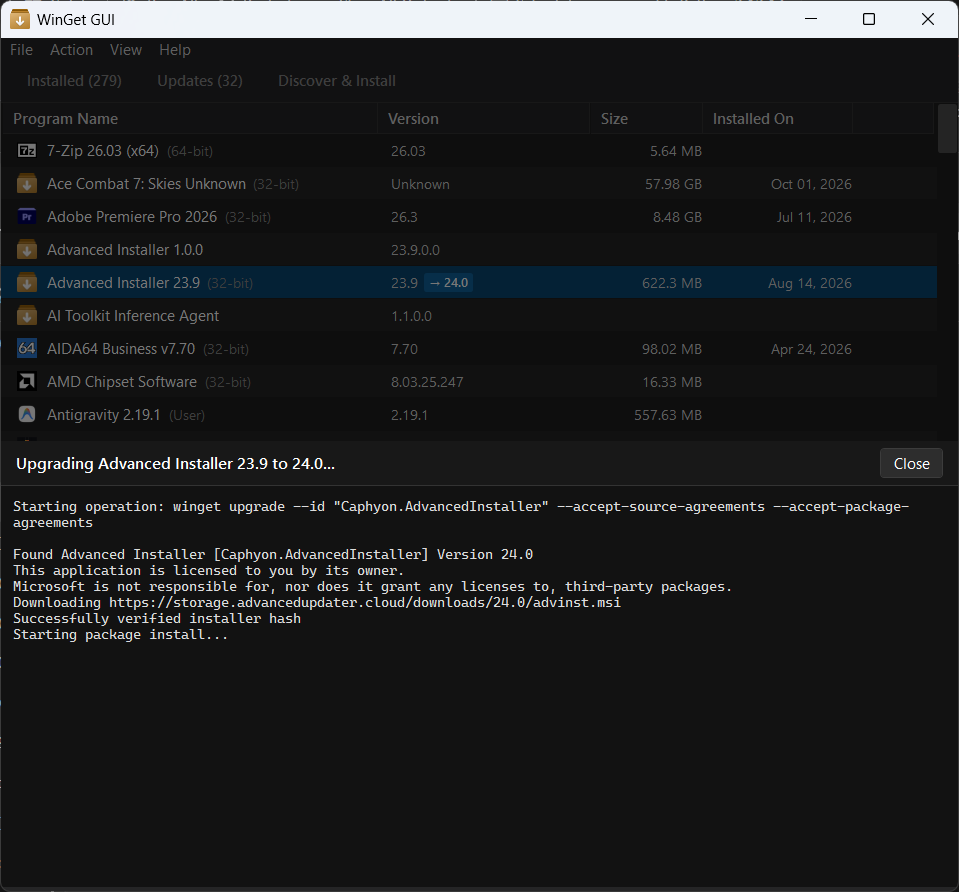
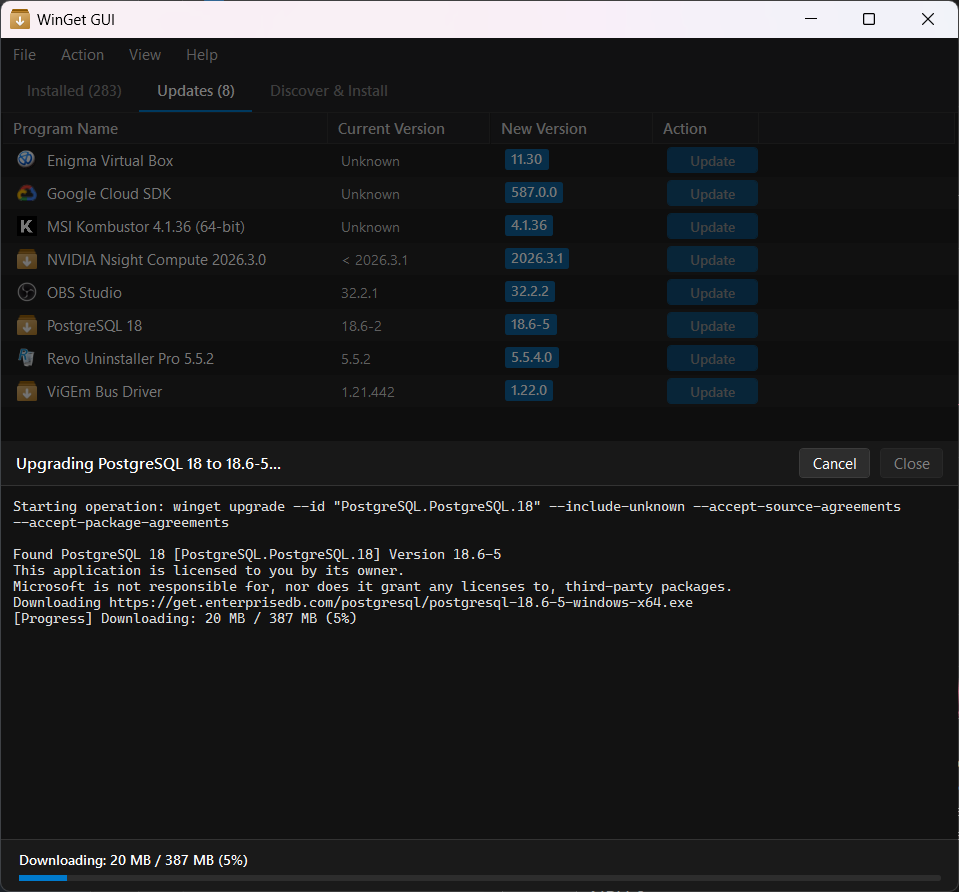
fix(download): improve temp file detection and total size resolution

diff --git a/Services/WingetService.cs b/Services/WingetService.cs
@@ -517,9 +517,10 @@ public class WingetService
         long totalBytes = 0;
         var operationStartTime = DateTime.UtcNow.AddSeconds(-5);
 
-        var wingetTempPath = Path.Combine(
+        var tempRoot = Path.Combine(
             Environment.GetFolderPath(Environment.SpecialFolder.LocalApplicationData),
-            "Temp", "WinGet");
+            "Temp");
+        var wingetTempPath = Path.Combine(tempRoot, "WinGet");
 
         void TryQueryContentLength(string url)
         {
@@ -528,17 +529,125 @@ public class WingetService
             {
                 try
                 {
-                    using var client = new HttpClient { Timeout = TimeSpan.FromSeconds(4) };
-                    using var req = new HttpRequestMessage(HttpMethod.Head, url);
-                    req.Headers.UserAgent.ParseAdd("WinGet");
-                    using var resp = await client.SendAsync(req, HttpCompletionOption.ResponseHeadersRead, monitorCts.Token);
-                    if (resp.Content.Headers.ContentLength.HasValue && resp.Content.Headers.ContentLength.Value > 0)
+                    using var client = new HttpClient { Timeout = TimeSpan.FromSeconds(5) };
+                    client.DefaultRequestHeaders.UserAgent.ParseAdd("WinGet");
+
+                    // 1. Try HEAD request first
+                    try
                     {
-                        Interlocked.Exchange(ref totalBytes, resp.Content.Headers.ContentLength.Value);
+                        using var headReq = new HttpRequestMessage(HttpMethod.Head, url);
+                        using var headResp = await client.SendAsync(headReq, HttpCompletionOption.ResponseHeadersRead, monitorCts.Token);
+                        if (headResp.IsSuccessStatusCode && headResp.Content.Headers.ContentLength.HasValue && headResp.Content.Headers.ContentLength.Value > 0)
+                        {
+                            Interlocked.Exchange(ref totalBytes, headResp.Content.Headers.ContentLength.Value);
+                            return;
+                        }
                     }
+                    catch { }
+
+                    // 2. Fallback to GET Range: bytes=0-0 (downloads only 1 single byte)
+                    try
+                    {
+                        using var getReq = new HttpRequestMessage(HttpMethod.Get, url);
+                        getReq.Headers.Range = new System.Net.Http.Headers.RangeHeaderValue(0, 0);
+                        using var getResp = await client.SendAsync(getReq, HttpCompletionOption.ResponseHeadersRead, monitorCts.Token);
+                        if (getResp.Content.Headers.ContentRange?.Length is long rangeLen && rangeLen > 0)
+                        {
+                            Interlocked.Exchange(ref totalBytes, rangeLen);
+                            return;
+                        }
+                        if (getResp.Content.Headers.ContentLength.HasValue && getResp.Content.Headers.ContentLength.Value > 0)
+                        {
+                            Interlocked.Exchange(ref totalBytes, getResp.Content.Headers.ContentLength.Value);
+                            return;
+                        }
+                    }
+                    catch { }
                 }
                 catch { }
             }, monitorCts.Token);
+        }
+
+        FileInfo? FindBestActiveFile()
+        {
+            FileInfo? best = null;
+            long bestSize = -1;
+            DateTime bestTime = operationStartTime;
+
+            // 1. Check WinGet temp directory (strictly excluding \cache\)
+            if (Directory.Exists(wingetTempPath))
+            {
+                try
+                {
+                    var di = new DirectoryInfo(wingetTempPath);
+                    foreach (var file in di.GetFiles("*", SearchOption.AllDirectories))
+                    {
+                        if (file.FullName.Contains(@"\cache\", StringComparison.OrdinalIgnoreCase) ||
+                            file.FullName.EndsWith(@"\cache", StringComparison.OrdinalIgnoreCase))
+                        {
+                            continue;
+                        }
+
+                        var ext = file.Extension;
+                        if (ext.Equals(".yaml", StringComparison.OrdinalIgnoreCase) ||
+                            ext.Equals(".mszyml", StringComparison.OrdinalIgnoreCase) ||
+                            ext.Equals(".txt", StringComparison.OrdinalIgnoreCase) ||
+                            ext.Equals(".log", StringComparison.OrdinalIgnoreCase))
+                        {
+                            continue;
+                        }
+
+                        if (file.LastWriteTimeUtc >= operationStartTime)
+                        {
+                            long physical = GetPhysicalFileSize(file.FullName);
+                            long size = physical >= 0 ? physical : file.Length;
+                            if ((size > 65536 || file.Length > 65536) && (size > bestSize || file.LastWriteTimeUtc > bestTime))
+                            {
+                                best = file;
+                                bestSize = size;
+                                bestTime = file.LastWriteTimeUtc;
+                            }
+                        }
+                    }
+                }
+                catch { }
+            }
+
+            // 2. Check top-level %LOCALAPPDATA%\Temp (*.tmp, *.exe, *.msi, *.msix, *.zip)
+            if (Directory.Exists(tempRoot))
+            {
+                try
+                {
+                    var di = new DirectoryInfo(tempRoot);
+                    foreach (var file in di.GetFiles("*.*", SearchOption.TopDirectoryOnly))
+                    {
+                        var ext = file.Extension;
+                        if (!ext.Equals(".tmp", StringComparison.OrdinalIgnoreCase) &&
+                            !ext.Equals(".exe", StringComparison.OrdinalIgnoreCase) &&
+                            !ext.Equals(".msi", StringComparison.OrdinalIgnoreCase) &&
+                            !ext.Equals(".msix", StringComparison.OrdinalIgnoreCase) &&
+                            !ext.Equals(".zip", StringComparison.OrdinalIgnoreCase))
+                        {
+                            continue;
+                        }
+
+                        if (file.LastWriteTimeUtc >= operationStartTime)
+                        {
+                            long physical = GetPhysicalFileSize(file.FullName);
+                            long size = physical >= 0 ? physical : file.Length;
+                            if ((size > 65536 || file.Length > 65536) && (size > bestSize || file.LastWriteTimeUtc > bestTime))
+                            {
+                                best = file;
+                                bestSize = size;
+                                bestTime = file.LastWriteTimeUtc;
+                            }
+                        }
+                    }
+                }
+                catch { }
+            }
+
+            return best;
         }
 
         void StartDownloadMonitor()
@@ -549,122 +658,111 @@ public class WingetService
             {
                 double lastReportedMb = -1;
                 int lastReportedPct = -1;
+                long lastReportedTotal = -1;
                 string? trackedFilePath = null;
+                int ticksSinceScan = 0;
 
                 while (!monitorCts.Token.IsCancellationRequested)
                 {
                     try
                     {
-                        if (Directory.Exists(wingetTempPath))
-                        {
-                            FileInfo? activeFile = null;
+                        FileInfo? activeFile = null;
+                        ticksSinceScan++;
 
-                            if (!string.IsNullOrEmpty(trackedFilePath) && File.Exists(trackedFilePath))
+                        if (!string.IsNullOrEmpty(trackedFilePath) && File.Exists(trackedFilePath))
+                        {
+                            activeFile = new FileInfo(trackedFilePath);
+                            activeFile.Refresh();
+                            long currentSize = activeFile.Length;
+
+                            // Periodically check if a larger active installer candidate exists
+                            if (ticksSinceScan >= 4 || currentSize <= 65536)
                             {
-                                activeFile = new FileInfo(trackedFilePath);
+                                ticksSinceScan = 0;
+                                var candidate = FindBestActiveFile();
+                                if (candidate != null && candidate.FullName != trackedFilePath)
+                                {
+                                    if (candidate.Length > currentSize)
+                                    {
+                                        activeFile = candidate;
+                                        trackedFilePath = activeFile.FullName;
+                                    }
+                                }
+                            }
+                        }
+                        else
+                        {
+                            activeFile = FindBestActiveFile();
+                            if (activeFile != null)
+                            {
+                                trackedFilePath = activeFile.FullName;
+                            }
+                        }
+
+                        long currentDownloaded = 0;
+                        long effectiveTotal = Interlocked.Read(ref totalBytes);
+
+                        if (activeFile != null && File.Exists(activeFile.FullName))
+                        {
+                            activeFile.Refresh();
+                            long logical = activeFile.Length;
+                            long physical = GetPhysicalFileSize(activeFile.FullName);
+
+                            if (physical >= 0 && logical > physical)
+                            {
+                                // Sparse pre-allocated file (DeliveryOptimization / BITS)
+                                currentDownloaded = physical;
+                                effectiveTotal = logical;
+                            }
+                            else if (physical >= 0)
+                            {
+                                currentDownloaded = logical;
+                                if (effectiveTotal <= 0 && Interlocked.Read(ref totalBytes) > 0)
+                                {
+                                    effectiveTotal = Interlocked.Read(ref totalBytes);
+                                }
                             }
                             else
                             {
-                                var di = new DirectoryInfo(wingetTempPath);
-                                FileInfo? bestCandidate = null;
-                                long bestSize = -1;
-                                DateTime bestTime = operationStartTime;
+                                currentDownloaded = logical;
+                            }
+                        }
 
-                                foreach (var file in di.GetFiles("*", SearchOption.AllDirectories))
-                                {
-                                    var ext = file.Extension;
-                                    if (ext.Equals(".yaml", StringComparison.OrdinalIgnoreCase) ||
-                                        ext.Equals(".mszyml", StringComparison.OrdinalIgnoreCase) ||
-                                        ext.Equals(".txt", StringComparison.OrdinalIgnoreCase))
-                                    {
-                                        continue;
-                                    }
-
-                                    if (file.LastWriteTimeUtc >= operationStartTime)
-                                    {
-                                        long physical = GetPhysicalFileSize(file.FullName);
-                                        long size = physical >= 0 ? physical : file.Length;
-                                        if (file.LastWriteTimeUtc > bestTime || size > bestSize)
-                                        {
-                                            bestCandidate = file;
-                                            bestSize = size;
-                                            bestTime = file.LastWriteTimeUtc;
-                                        }
-                                    }
-                                }
-
-                                if (bestCandidate != null)
-                                {
-                                    activeFile = bestCandidate;
-                                    trackedFilePath = activeFile.FullName;
-                                }
+                        if (effectiveTotal > 0 || currentDownloaded > 0)
+                        {
+                            var currMb = (double)currentDownloaded / (1024.0 * 1024.0);
+                            double percentage = 0;
+                            if (effectiveTotal > 0 && effectiveTotal >= currentDownloaded)
+                            {
+                                percentage = (currentDownloaded * 100.0) / effectiveTotal;
+                                if (percentage >= 99.0) percentage = 99.0;
                             }
 
-                            if (activeFile != null)
+                            int intPct = (int)Math.Floor(percentage);
+
+                            if (Math.Abs(currMb - lastReportedMb) >= 0.2 || intPct != lastReportedPct || effectiveTotal != lastReportedTotal)
                             {
-                                activeFile.Refresh();
-                                long logical = activeFile.Length;
-                                long physical = GetPhysicalFileSize(activeFile.FullName);
+                                lastReportedMb = currMb;
+                                lastReportedPct = intPct;
+                                lastReportedTotal = effectiveTotal;
 
-                                long currentDownloaded;
-                                long effectiveTotal = Interlocked.Read(ref totalBytes);
-
-                                if (physical >= 0 && logical > physical)
+                                string progressText;
+                                if (effectiveTotal > 0)
                                 {
-                                    // Sparse pre-allocated file (DeliveryOptimization / BITS)
-                                    // logical IS the total size; physical IS the actual bytes written so far!
-                                    currentDownloaded = physical;
-                                    effectiveTotal = logical;
-                                }
-                                else if (physical >= 0)
-                                {
-                                    currentDownloaded = logical;
-                                    if (effectiveTotal <= 0 && Interlocked.Read(ref totalBytes) > 0)
-                                    {
-                                        effectiveTotal = Interlocked.Read(ref totalBytes);
-                                    }
+                                    double totMb = (double)effectiveTotal / (1024.0 * 1024.0);
+                                    progressText = $"Downloading: {currMb:0.#} MB / {totMb:0.#} MB ({intPct}%)";
                                 }
                                 else
                                 {
-                                    currentDownloaded = logical;
+                                    progressText = $"Downloading: {currMb:0.#} MB";
                                 }
 
-                                if (currentDownloaded > 0)
-                                {
-                                    var currMb = (double)currentDownloaded / (1024.0 * 1024.0);
-                                    double percentage = 0;
-                                    if (effectiveTotal > 0 && effectiveTotal >= currentDownloaded)
-                                    {
-                                        percentage = (currentDownloaded * 100.0) / effectiveTotal;
-                                        if (percentage >= 99.0) percentage = 99.0;
-                                    }
-
-                                    int intPct = (int)Math.Floor(percentage);
-
-                                    if (Math.Abs(currMb - lastReportedMb) >= 0.2 || intPct != lastReportedPct)
-                                    {
-                                        lastReportedMb = currMb;
-                                        lastReportedPct = intPct;
-
-                                        string progressText;
-                                        if (effectiveTotal > 0)
-                                        {
-                                            double totMb = (double)effectiveTotal / (1024.0 * 1024.0);
-                                            progressText = $"Downloading: {currMb:0.#} MB / {totMb:0.#} MB ({intPct}%)";
-                                        }
-                                        else
-                                        {
-                                            progressText = $"Downloading: {currMb:0.#} MB";
-                                        }
-
-                                        onProgress?.Invoke(new DownloadProgressInfo(
-                                            "Downloading",
-                                            currentDownloaded,
-                                            effectiveTotal,
-                                            percentage,
-                                            progressText));
-                                    }
-                                }
+                                onProgress?.Invoke(new DownloadProgressInfo(
+                                    "Downloading",
+                                    currentDownloaded,
+                                    effectiveTotal,
+                                    percentage,
+                                    progressText));
                             }
                         }
                     }
